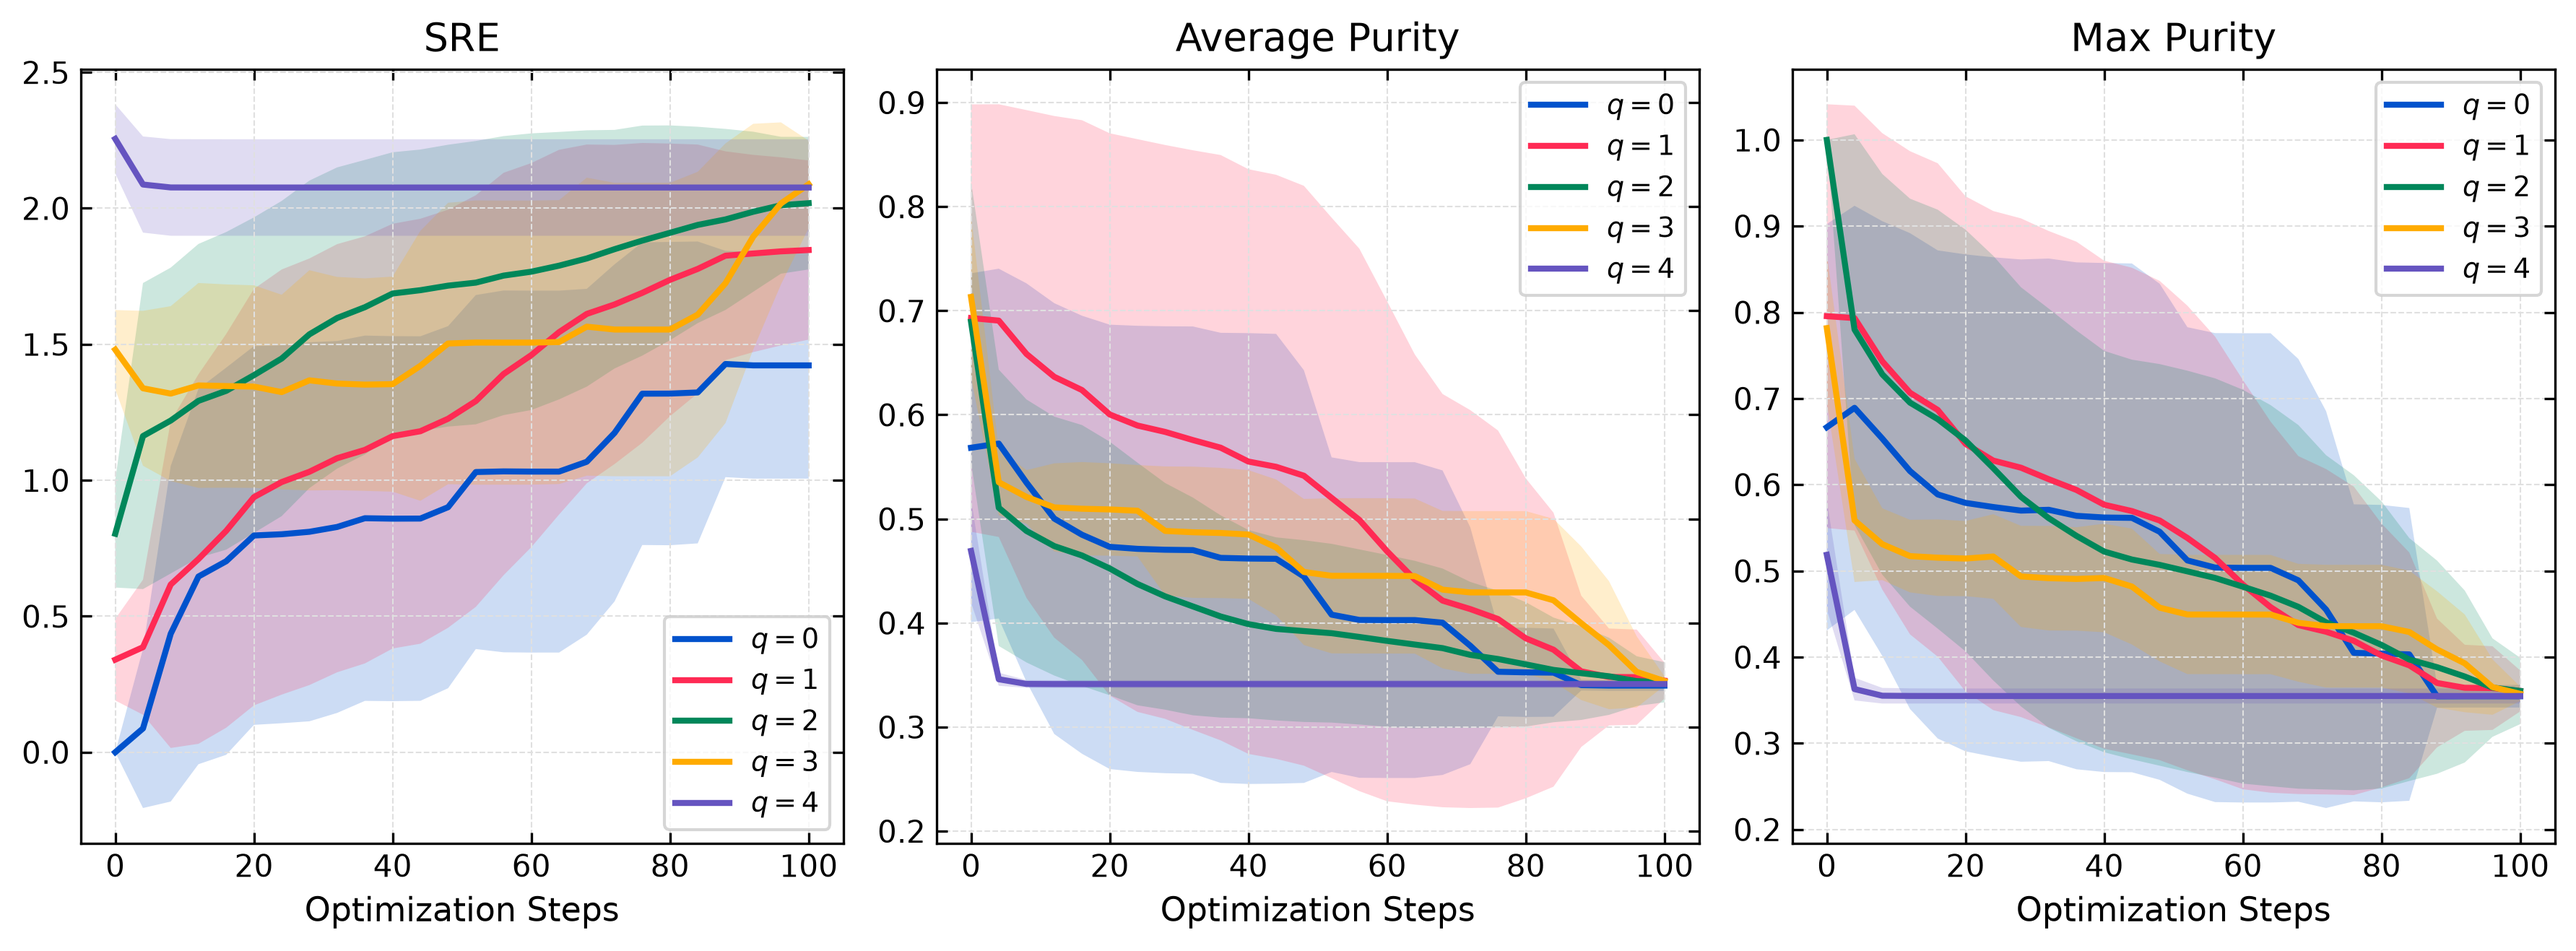
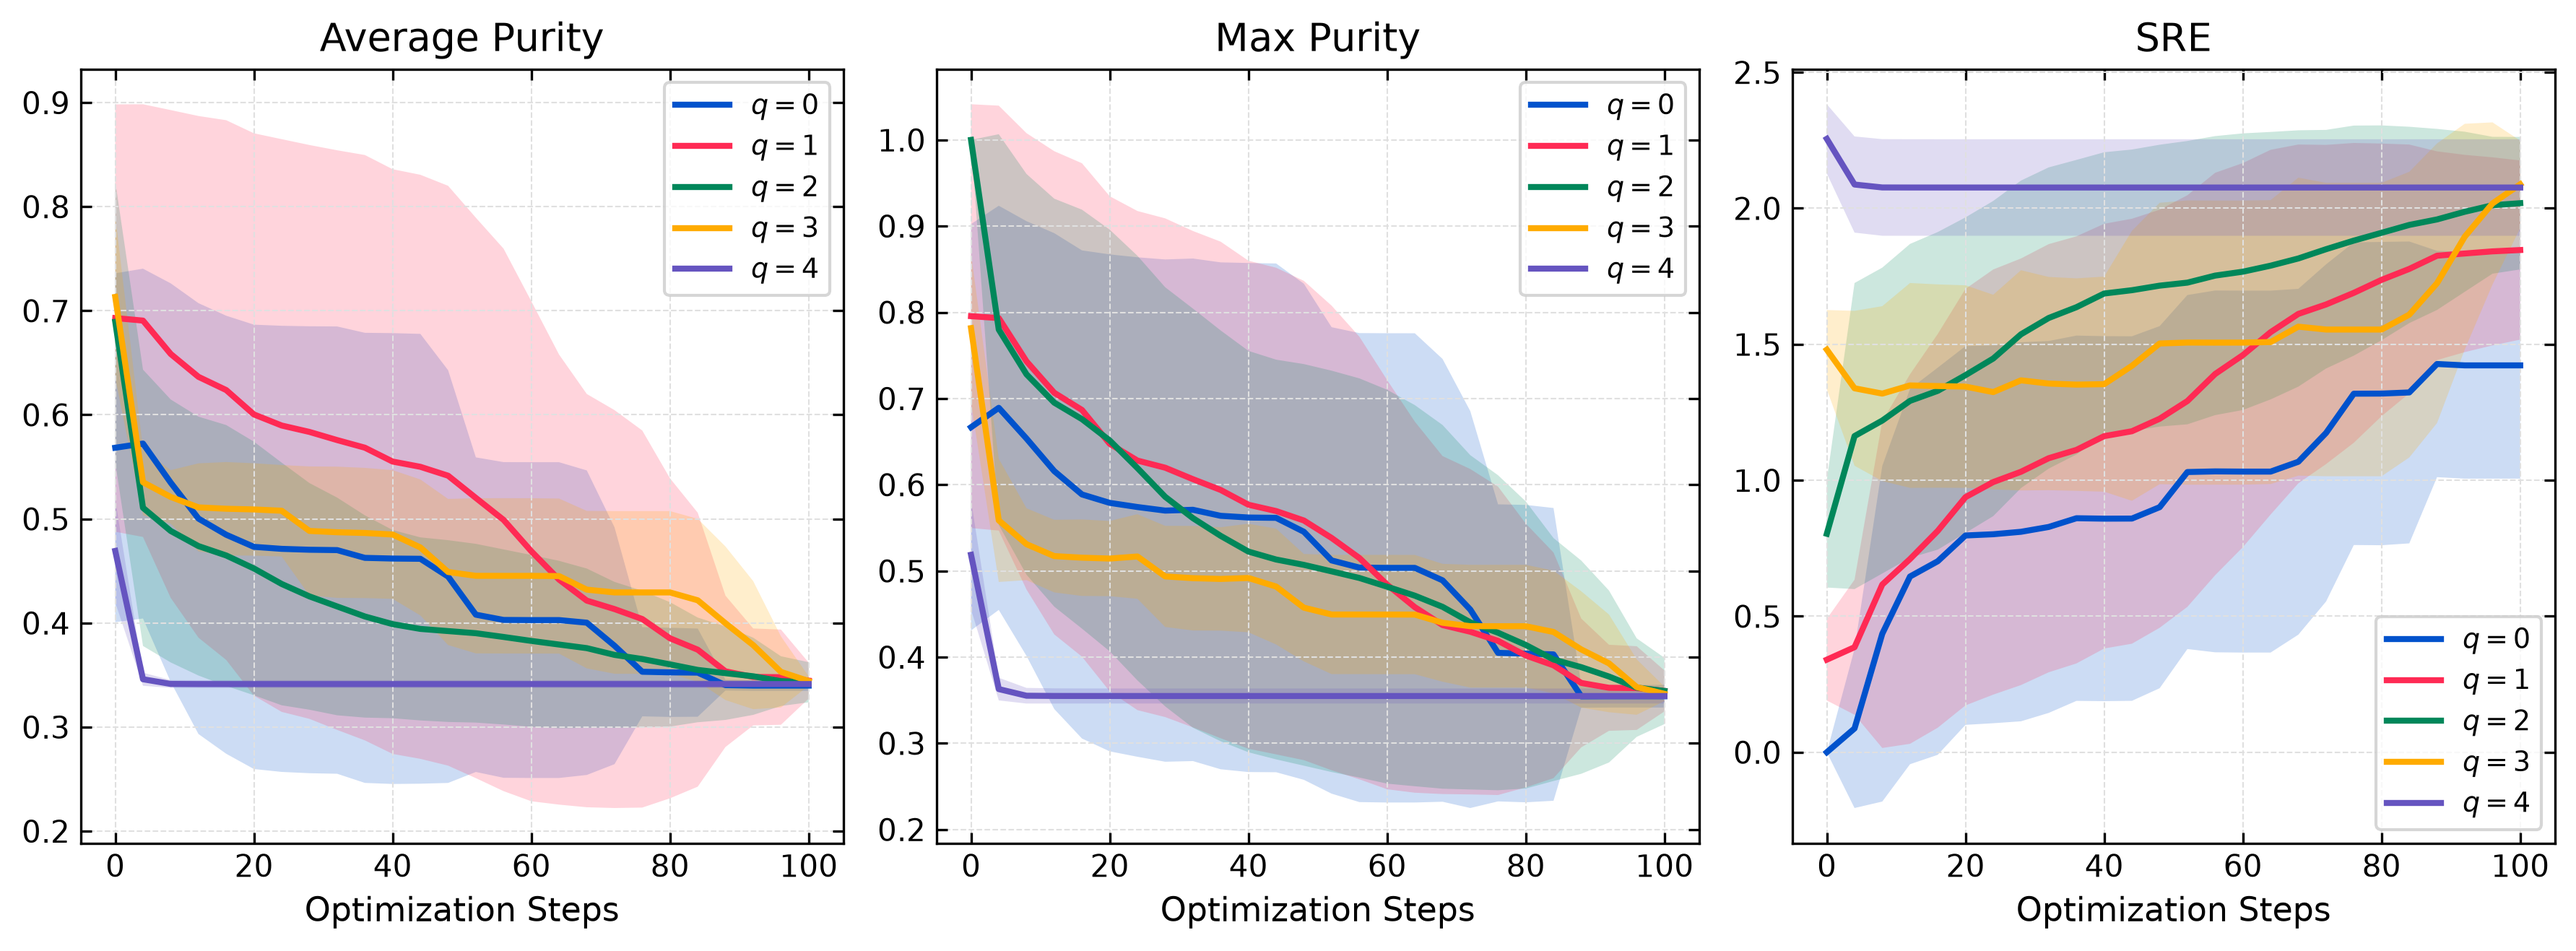
fix(plots): update metric subplot column order to Average purity, Max purity, SRE

diff --git a/generate_matplotlib_configs.py b/generate_matplotlib_configs.py
@@ -103,11 +103,11 @@ def load_dataset_runs(data_dir="zip7"):
 # Config 1 & Config 2: Line Chart
 # -------------------------------------------------------------------
 def plot_linechart_config(loaded_data, filter_mode="TE States", output_path="TE.png"):
-    selected_metrics = ["sre", "average_purity", "max_purity"]
+    selected_metrics = ["average_purity", "max_purity", "sre"]
     metric_map = {
-        "sre": "SRE",
         "average_purity": "Average Purity",
-        "max_purity": "Max Purity"
+        "max_purity": "Max Purity",
+        "sre": "SRE"
     }
     colors = ["#0052CC", "#FF2A54", "#00875A", "#FFAB00", "#6554C0", "#00B8D9", "#FF5630", "#36B37E"]
 
